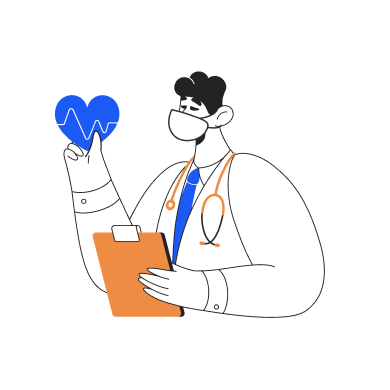
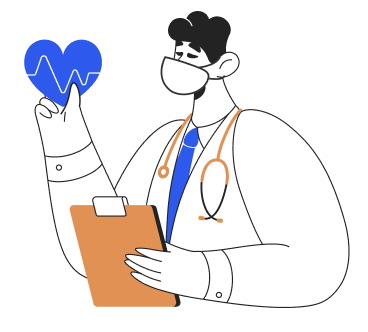
Fixed ScrollView on Onboarding page, add style for SignIn and CreateAccount pages

diff --git a/src/screens/Onboarding.tsx b/src/screens/Onboarding.tsx
@@ -1,4 +1,4 @@
-import React, {useState, useRef, useEffect} from 'react';
+import React, {useState, useRef} from 'react';
 
 import onboardingAll_1 from './../../assets/onboardingAll_1.png';
 import onboardingAll_2 from './../../assets/onboardingAll_2.png';
@@ -73,46 +73,40 @@ const Onboarding = (props: OnboardingScreenProps) => {
   };
 
   return (
-    <>
-      {/* <ScrollView
-        ref={scrollViewRef}
-        pagingEnabled
-        horizontal
-        showsHorizontalScrollIndicator={false}
-        scrollEnabled
-        onScroll={handleScroll} // Handle scrolling event
-        scrollEventThrottle={16} // Adjust the scroll event frequency
-      > */}
+    <ScrollView
+      ref={scrollViewRef}
+      horizontal
+      pagingEnabled
+      onScroll={handleScroll}
+      scrollEventThrottle={8}>
       {pages.map((page, index) => (
         <SafeAreaView
           key={index}
-          className="bg-themeWhite h-screen w-screen items-center pb-4">
+          className="flex-1 w-screen h-screen  bg-themeWhite self-center">
           <View
             className="flex-1 flex-col max-w-md mb-10"
             accessibilityLabel="Onboarding Info Page"
             accessibilityHint="Informs you how your data will be used and not be used"
             accessibilityRole="header">
-            <View className="">
-              <Image
-                className="w-full h-[500px] max-h-full mb-5 bg-contain bg-center"
-                source={page.imageSource}
-              />
-              <View>
-                <Text className="mx-auto font-serif text-[25px] text-center">
-                  {page.title}
-                </Text>
-                <Text className="mx-10 py-5 font-serif text-[14px] text-center leading-5 font-light">
-                  {page.text}
-                </Text>
-              </View>
+            <Image
+              className="w-full h-[500px] bg-contain bg-center"
+              source={page.imageSource}
+            />
+            <View>
+              <Text className="mx-auto font-serif text-[25px] text-center">
+                {page.title}
+              </Text>
+              <Text className="mx-10 py-5 font-serif text-[14px] text-center leading-5 font-light">
+                {page.text}
+              </Text>
             </View>
 
             <View className="flex-1 flex-col-reverse mt-1 ">
-              <View className="flex-1 mt-8 justify-center">
+              <View className="flex-1 mt-5 justify-center">
                 <View className="flex-1 mt-2 mb-2">
                   <ProgressDots page={page.pageIndicator} />
                 </View>
-                <View className="mx-auto mt-7">
+                <View className="mx-auto mt-5">
                   <Button
                     onPress={page.onButtonPress}
                     innerText={page.buttonText}
@@ -144,8 +138,7 @@ const Onboarding = (props: OnboardingScreenProps) => {
           </View>
         </SafeAreaView>
       ))}
-      {/* </ScrollView> */}
-    </>
+    </ScrollView>
   );
 };
 

diff --git a/src/screens/SignInPage.tsx b/src/screens/SignInPage.tsx
@@ -59,14 +59,19 @@ export default function SignInPage(props: Props) {
   };
 
   return (
-    <SafeAreaView className="bg-themeWhite w-screen h-screen flex-1">
+    <SafeAreaView className="flex-1 bg-themeWhite w-screen h-screen ">
       <ScrollView>
-        {/* <TopNavBar textSize='xl' textValue='Sign In' fontFamily='' haveProgress={false} /> */}
-        <View className="">
+        {/* <ScrollView className="flex-1" contentContainerStyle={{flexGrow: 1}}> */}
+        <View className="flex-1">
+          <Text
+            style={{fontFamily: 'Carter One'}}
+            className=" text-3xl color-black text-center pt-8">
+            Welcome back!
+          </Text>
           <View className="flex flex-row justify-center align-middle">
-            <Image className="w-342 h-349 m-4" source={SignInImg}></Image>
+            <Image className="w-342 h-349" source={SignInImg}></Image>
           </View>
-          <View className="mb-6 flex items-center align-middle justify-center">
+          <View className="flex items-center align-middle justify-center">
             <TextInputField
               label="Username*"
               value={userSignUp.username}
@@ -80,12 +85,12 @@ export default function SignInPage(props: Props) {
           </View>
 
           {errorMessage ? (
-            <View className="mt-0 p-2 bg-red-100 border border-red-500 mx-auto w-[315]">
+            <View className="mt-0 p-2 min-h-[50px] bg-red-100 border border-red-500 mx-auto w-[315]">
               <Text className="text-red-500">{errorMessage}</Text>
             </View>
           ) : null}
         </View>
-        <View className="mt-4 items-center">
+        <View className="items-center">
           <Button
             onPress={handleSubmit}
             innerText="Login"
@@ -106,21 +111,6 @@ export default function SignInPage(props: Props) {
             borderColor="border border-black"
             width="80"
           />
-          {/* <!--           <Button
-            onPress={() => console.log('Skip button pressed')}
-            innerText="Skip"
-            bgColor=""
-            textColor=""
-            border={false}
-            borderColor=""
-            width="80"
-
-            borderColor="border border-themeBlue"
-            width='80'
-            accessLabel="Login"
-            accessHint="Navigates to the login screen"
-
-          /> --> */}
         </View>
       </ScrollView>
     </SafeAreaView>

diff --git a/src/screens/CreateAccount/CreateAccount1.tsx b/src/screens/CreateAccount/CreateAccount1.tsx
@@ -130,7 +130,7 @@ const CreateAccount1: React.FC<{navigation: any}> = ({navigation}) => {
             <View className="w-screen ">
               <View>
                 <Image
-                  className="mx-auto mt-5 w-[217px] h-[217px] "
+                  className="mx-auto mt-3 w-[217px] h-[217px] "
                   source={CreateAccount}
                 />
 
@@ -138,7 +138,7 @@ const CreateAccount1: React.FC<{navigation: any}> = ({navigation}) => {
                   <PasswordError />
                 </View>
               </View>
-              <View className="flex-1 w-screen items-center mt-5">
+              <View className="flex-1 w-screen items-center">
                 <View className="text-left">
                   <Text className="text-lg">
                     Already have an account?{' '}

diff --git a/src/screens/ThankYouScreen.tsx b/src/screens/ThankYouScreen.tsx
@@ -45,7 +45,7 @@ const ThankYouScreen = ({navigation, route}: Props) => {
 
   return (
     <SafeAreaView className="h-screen w-screen mx-auto my-auto flex-1 bg-themeWhite">
-      <View className="flex-1 mx-auto  justify-center">
+      <View className="flex-1 mx-auto justify-center">
         <View
           accessibilityLabel="Thank you for Reporting your Covid Test"
           accessibilityHint="Thanking you for submitting you Covid Test"

diff --git a/src/screens/LandingPage.tsx b/src/screens/LandingPage.tsx
@@ -19,7 +19,7 @@ const LandingPage: React.FC<{navigation: any}> = ({navigation}) => {
     <>
       <SafeAreaView className="w-screen h-screen flex-1 bg-themeWhite justify-center items-center align-middle max-w-md self-center">
         <StatusBar
-          backgroundColor="green"
+          backgroundColor="blue"
           barStyle={theme === 'dark' ? 'light-content' : 'default'}
         />
         <ScrollView className="w-full">
